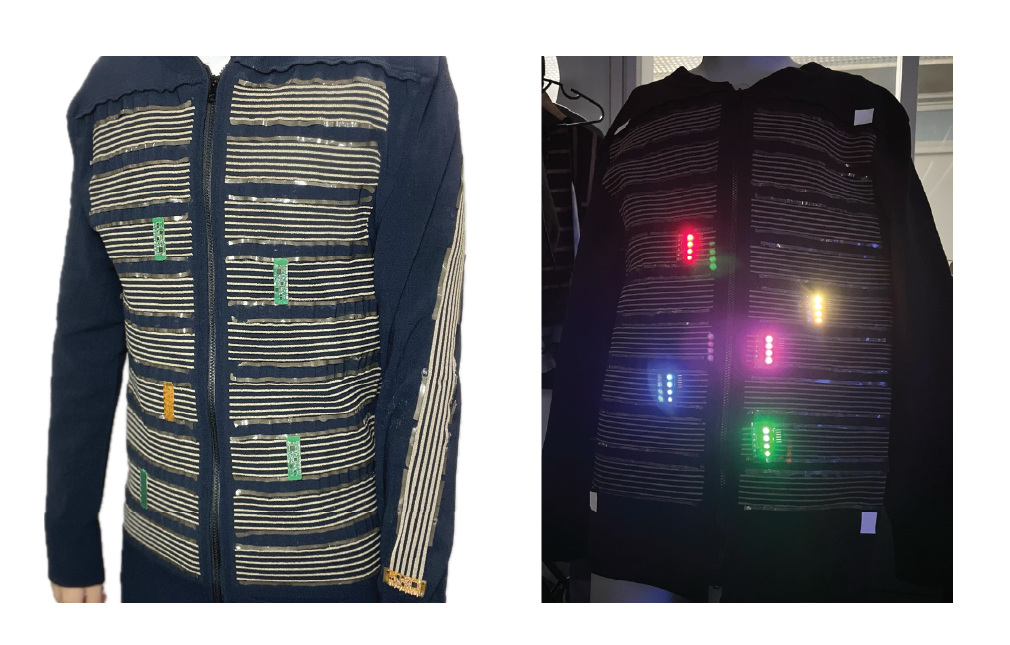
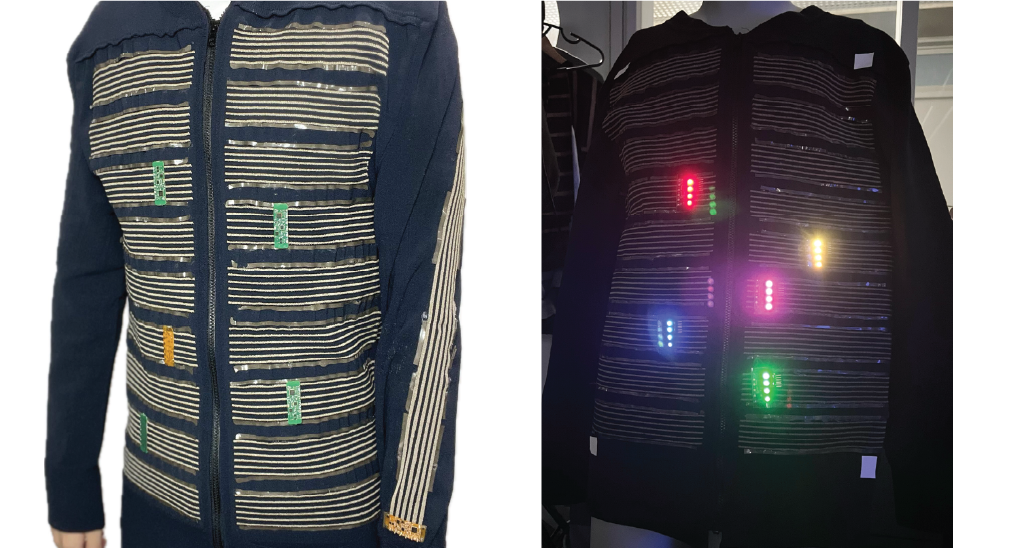
project and social

diff --git a/_projects/2_project.md b/_projects/2_project.md
@@ -9,7 +9,7 @@ category: work
 related_publications: true
 ---
 
-This paper presents plug-n-play e-knit, a large-scale, repositionable e-textile for providing trial-and-error prototyping platforms across the textile. Plug-n-play e-knit leverages industrial digital knitting machines loaded with conductive thread to automatically embed a communication and power supply network into garments, in addition to using soft magnet connectors to rearrange electronic components while preserving the stretchability of the garment.
+This paper presents plug-n-play e-knit{% cite li2025plug %}, a large-scale, repositionable e-textile for providing trial-and-error prototyping platforms across the textile. Plug-n-play e-knit leverages industrial digital knitting machines loaded with conductive thread to automatically embed a communication and power supply network into garments, in addition to using soft magnet connectors to rearrange electronic components while preserving the stretchability of the garment.
 
 These combinations enable users to quickly establish e-textile sensor networks, and moreover test the performance and optimal placement of the electric devices on the textile. We demonstrated that our textiles leveraging custom  I$^2$C protocols could achieve the motion-resilient motion-tracking sensor network over a \SI{2700}{cm^2} garment area.
 <!-- 
@@ -28,15 +28,16 @@ These combinations enable users to quickly establish e-textile sensor networks, 
 <div class="caption">
     Overview of plug-n-play e-knit. Plug-n-play e-knit is a (a) machine-knitted e-textile prototyping tool, which enables (b) large-area, reconfigurable and on-textile sensing. (c) It also provides a non-invasive sensor connection method by using soft magnet.
 </div>
-<div class="row">
+
+<!-- <div class="row">
     <div class="col-sm mt-3 mt-md-0">
         {% include figure.liquid loading="eager" path="assets/img/5.jpg" title="example image" class="img-fluid rounded z-depth-1" %}
     </div>
 </div>
 <div class="caption">
     This image can also have a caption. It's like magic.
-</div>
-
+</div> -->
+<!-- 
 You can also put regular text between your rows of images.
 Say you wanted to write a little bit about your project before you posted the rest of the images.
 You describe how you toiled, sweated, _bled_ for your project, and then... you reveal its glory in the next row of images.
@@ -51,13 +52,16 @@ You describe how you toiled, sweated, _bled_ for your project, and then... you r
 </div>
 <div class="caption">
     You can also have artistically styled 2/3 + 1/3 images, like these.
-</div>
+</div> -->
 
+<!-- 
 The code is simple.
 Just wrap your images with `<div class="col-sm">` and place them inside `<div class="row">` (read more about the <a href="https://getbootstrap.com/docs/4.4/layout/grid/">Bootstrap Grid</a> system).
 To make images responsive, add `img-fluid` class to each; for rounded corners and shadows use `rounded` and `z-depth-1` classes.
-Here's the code for the last row of images above:
+Here's the code for the last row of images above: -->
 
+
+<!-- 
 {% raw %}
 
 ```html
@@ -71,4 +75,4 @@ Here's the code for the last row of images above:
 </div>
 ```
 
-{% endraw %}
+{% endraw %} -->

diff --git a/_projects/1_project.md b/_projects/1_project.md
@@ -8,7 +8,7 @@ category: work
 related_publications: true
 ---
 
-picoRing mouse, enabling a continuous ring-based mouse interaction with ultra-low-powered ring-to-wristband wireless connectivity. picoRing mouse employs a coil-based impedance sensing named semi-passive inductive telemetry, allowing a wristband coil to capture a unique frequency response of a nearby ring coil via a sensitive inductive coupling between the coils. 
+picoRing mouse{% cite li2025ultra %}{% cite li2025demo %}, enabling a continuous ring-based mouse interaction with ultra-low-powered ring-to-wristband wireless connectivity. picoRing mouse employs a coil-based impedance sensing named semi-passive inductive telemetry, allowing a wristband coil to capture a unique frequency response of a nearby ring coil via a sensitive inductive coupling between the coils. 
 
 The ring coil converts the corresponding user's mouse input into the unique frequency response via an up to 449 uW mouse-driven modulation system. Therefore, the continuous use of picoRing mouse can last approximately 600 (8hrs use/day)-1000 (4hrs use/day) hours on a single charge of a 27 mAh battery while supporting subtle thumb-to-index scrolling and pressing interactions in real-world wearable computing situations.
 
@@ -35,8 +35,11 @@ The ring coil converts the corresponding user's mouse input into the unique freq
         </div>
     </div>
 </div>
+<div class="caption">
+    Working principle, application and evaluation of picoRing mouse.
+</div>
 
-<div class="row">
+<!-- <div class="row">
     <div class="col-sm mt-3 mt-md-0">
         {% include figure.liquid loading="eager" path="assets/img/5.jpg" title="example image" class="img-fluid rounded z-depth-1" %}
     </div>
@@ -79,4 +82,4 @@ Here's the code for the last row of images above:
 </div>
 ```
 
-{% endraw %}
+{% endraw %} -->

diff --git a/_pages/projects.md b/_pages/projects.md
@@ -2,7 +2,7 @@
 layout: page
 title: projects
 permalink: /projects/
-description: A growing collection of your cool projects.
+description: 
 nav: true
 nav_order: 2
 display_categories: [work]
